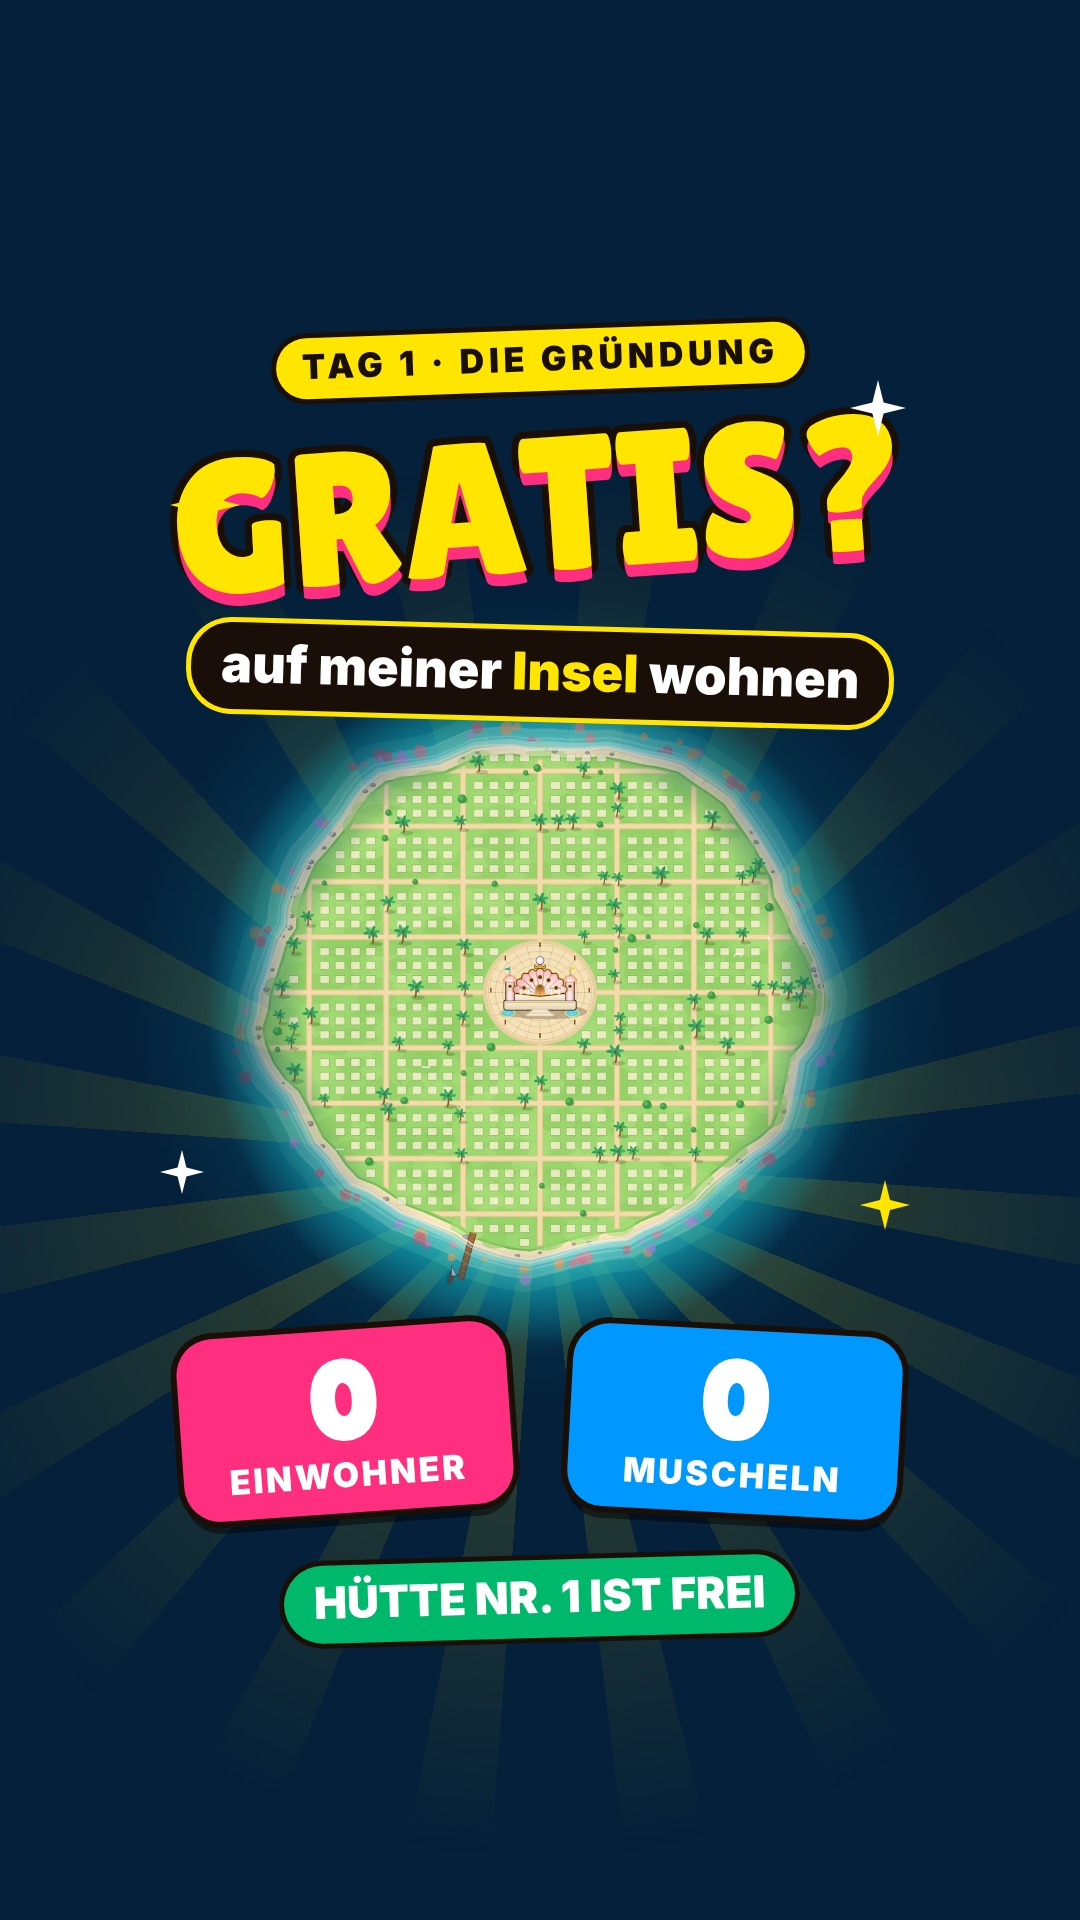
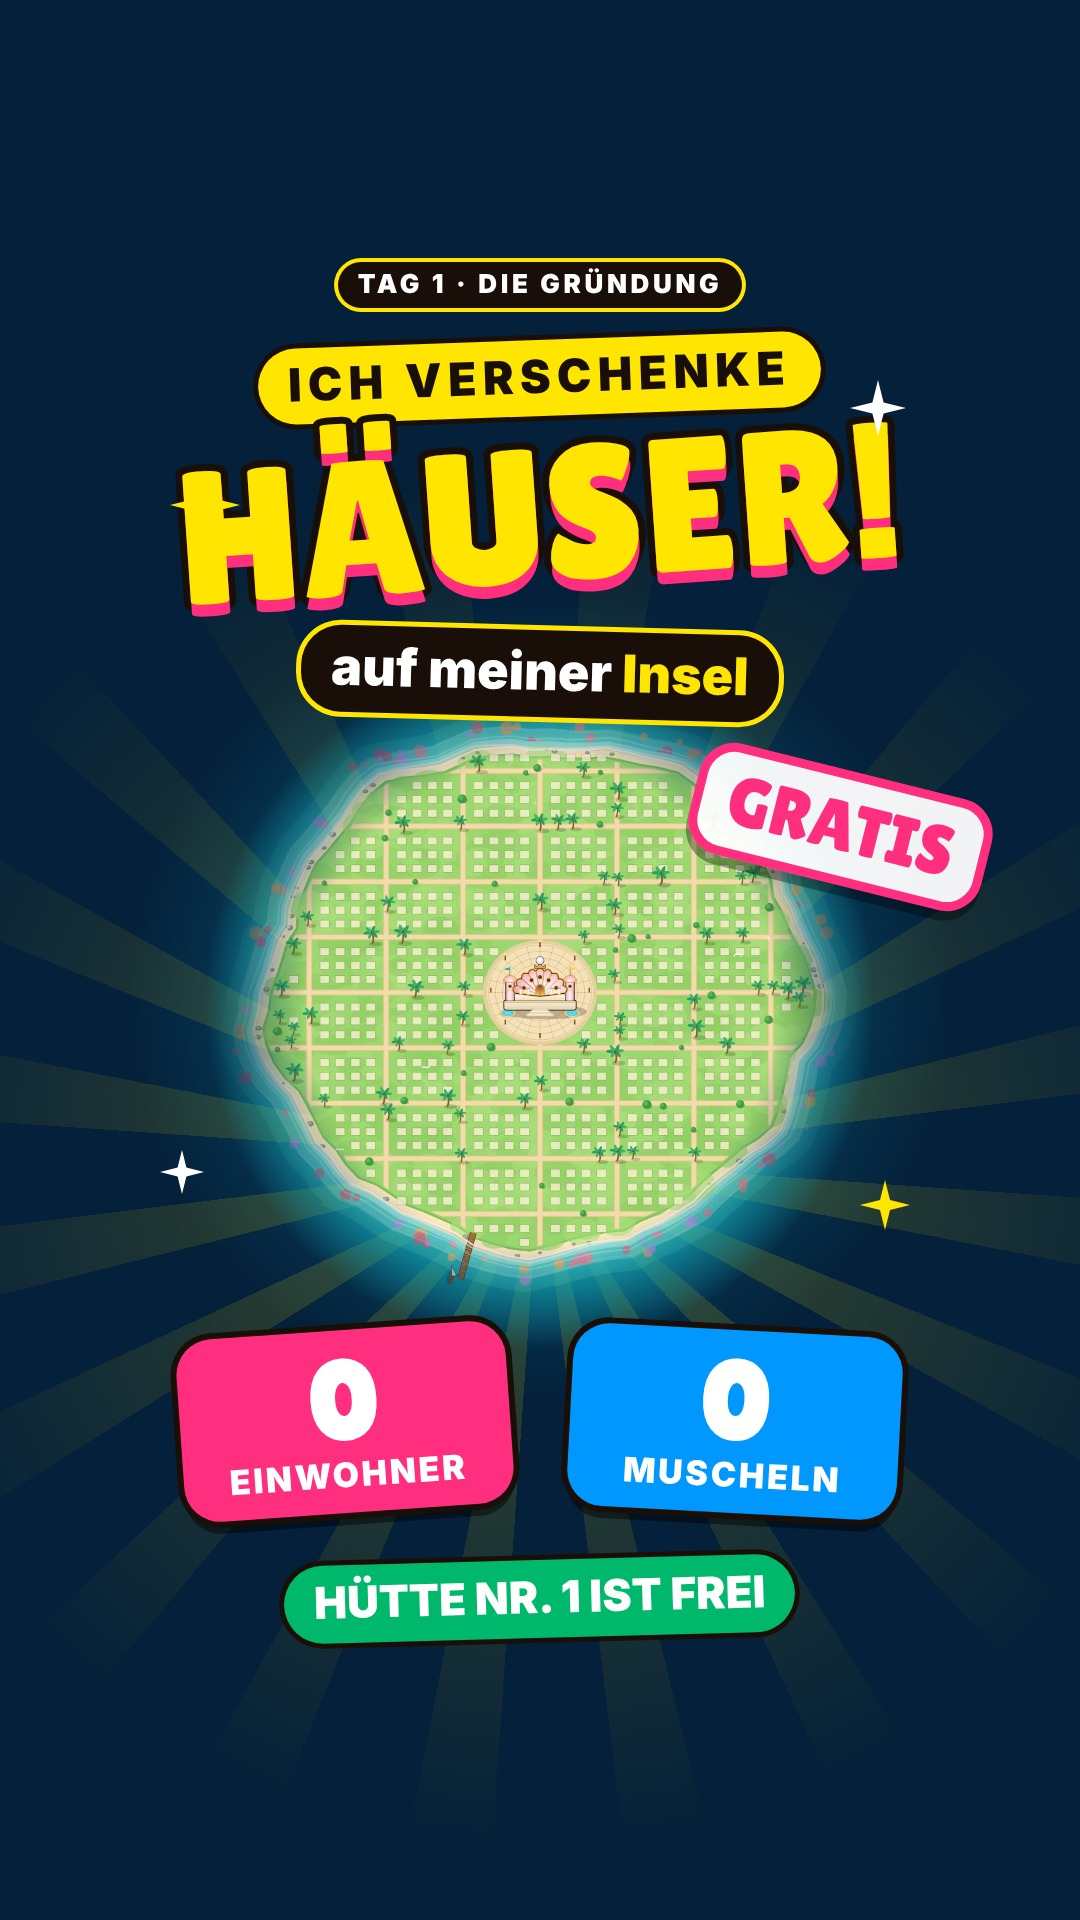
Muschel-Tal Tag 1: Thumbnail 'Ich verschenke Häuser!' + Beschreibung v3
Claude-Session: https://claude.ai/code/session_01McNdgWwqfWZ56Gqk3h71JF

Changed region(s): [[0.1528, 0.125, 0.9167, 0.5]]

diff --git a/videos/muscheltal-tag-1/cover/index.html b/videos/muscheltal-tag-1/cover/index.html
@@ -11,10 +11,11 @@ body { width: 1080px; height: 1920px; overflow: hidden; background: #04203a; fon
   background: repeating-conic-gradient(from 4deg, rgba(255,229,0,.14) 0deg 7deg, rgba(255,229,0,0) 7deg 18deg);
   -webkit-mask: radial-gradient(circle, #000 0%, #000 25%, transparent 62%); }
 .pill { position: absolute; left: 0; right: 0; margin: 0 auto; width: fit-content; border-radius: 40px; font-weight: 900; }
-#tag { top: 330px; padding: 8px 26px 12px; font-size: 34px; letter-spacing: .14em; background: #ffe500; color: #1a0f08; box-shadow: 0 0 0 5px #1a0f08; transform: rotate(-2deg); }
-#gratis { position: absolute; left: 0; right: 0; top: 410px; text-align: center; font-family: "Lilita One", sans-serif; font-size: 190px; line-height: 1; color: #ffe500;
+#ep { top: 262px; padding: 6px 20px 9px; font-size: 26px; letter-spacing: .14em; background: #1a0f08; color: #fff; box-shadow: 0 0 0 4px #ffe500; }
+#tag { top: 340px; padding: 8px 30px 12px; font-size: 46px; letter-spacing: .14em; background: #ffe500; color: #1a0f08; box-shadow: 0 0 0 5px #1a0f08; transform: rotate(-2deg); }
+#gratis { position: absolute; left: 0; right: 0; top: 420px; text-align: center; font-family: "Lilita One", sans-serif; font-size: 190px; line-height: 1; color: #ffe500;
   -webkit-text-stroke: 14px #1a0f08; paint-order: stroke fill; text-shadow: 0 12px 0 #ff2e7e; transform: rotate(-4deg); }
-#sub { top: 630px; padding: 10px 30px 14px; font-size: 52px; background: #1a0f08; color: #fff; box-shadow: 0 0 0 5px #ffe500; transform: rotate(1.5deg); }
+#sub { top: 630px; z-index: 2; padding: 10px 30px 14px; font-size: 52px; background: #1a0f08; color: #fff; box-shadow: 0 0 0 5px #ffe500; transform: rotate(1.5deg); }
 #sub b { color: #ffe500; }
 .stat { position: absolute; top: 1330px; width: 330px; padding: 14px 0 18px; border-radius: 36px; text-align: center; color: #fff; box-shadow: 0 0 0 6px #1a0f08, 0 12px 0 rgba(0,0,0,.45); }
 .stat b { display: block; font-family: "Lilita One", sans-serif; font-size: 110px; line-height: 1; }
@@ -22,14 +23,18 @@ body { width: 1080px; height: 1920px; overflow: hidden; background: #04203a; fon
 #s1 { left: 180px; background: #ff2e7e; transform: rotate(-4deg); } #s2 { left: 570px; background: #0098ff; transform: rotate(3deg); }
 #free { top: 1560px; padding: 10px 30px 14px; font-size: 44px; background: #00b86b; color: #fff; box-shadow: 0 0 0 5px #1a0f08; transform: rotate(-1.5deg); }
 .sp { position: absolute; }
+#stamp { position: absolute; left: 690px; top: 770px; padding: 6px 26px 10px; border: 9px solid #ff2e7e; border-radius: 36px; background: rgba(255,255,255,.95);
+  color: #ff2e7e; font-family: "Lilita One", sans-serif; font-size: 70px; transform: rotate(14deg); box-shadow: 0 10px 0 rgba(0,0,0,.35); }
 </style></head><body>
 <div id="spot"></div><div id="rays"></div><div id="bg"></div>
-<div id="tag" class="pill">TAG 1 · DIE GRÜNDUNG</div>
-<div id="gratis">GRATIS?</div>
-<div id="sub" class="pill">auf meiner <b>Insel</b> wohnen</div>
+<div id="ep" class="pill">TAG 1 · DIE GRÜNDUNG</div>
+<div id="tag" class="pill">ICH VERSCHENKE</div>
+<div id="gratis">HÄUSER!</div>
+<div id="sub" class="pill">auf meiner <b>Insel</b></div>
 <div class="stat" id="s1"><b>0</b><small>EINWOHNER</small></div>
 <div class="stat" id="s2"><b>0</b><small>MUSCHELN</small></div>
 <div id="free" class="pill">HÜTTE NR. 1 IST FREI</div>
+<div id="stamp">GRATIS</div>
 <svg class="sp" style="left:170px;top:470px;width:70px" viewBox="-10 -10 20 20"><path d="M0 -10 L2 -2 L10 0 L2 2 L0 10 L-2 2 L-10 0 L-2 -2Z" fill="#ffe500"/></svg>
 <svg class="sp" style="left:850px;top:380px;width:56px" viewBox="-10 -10 20 20"><path d="M0 -10 L2 -2 L10 0 L2 2 L0 10 L-2 2 L-10 0 L-2 -2Z" fill="#fff"/></svg>
 <svg class="sp" style="left:860px;top:1180px;width:50px" viewBox="-10 -10 20 20"><path d="M0 -10 L2 -2 L10 0 L2 2 L0 10 L-2 2 L-10 0 L-2 -2Z" fill="#ffe500"/></svg>

diff --git a/videos/muscheltal-tag-1/BESCHREIBUNG.md b/videos/muscheltal-tag-1/BESCHREIBUNG.md
@@ -1,29 +1,29 @@
-# Muschel-Tal – Tag 1: Die Gründung · Beschreibung (v2)
+# Muschel-Tal – Tag 1: Die Gründung · Beschreibung (v3)
 
-**Cover:** `renders/cover.jpg` – „GRATIS? auf meiner Insel wohnen“, Tag 1 · Die Gründung, 0 Einwohner, 0 Muscheln, Hütte Nr. 1 ist frei.
+**Cover:** `renders/cover.jpg` – „ICH VERSCHENKE HÄUSER! auf meiner Insel“, GRATIS-Stempel, 0 Einwohner, 0 Muscheln, Hütte Nr. 1 ist frei.
 
 ## Hauptversion (zum Posten)
-Hütte Nr. 1 ist noch frei 👀 Schreib „ich“ und zieh ein 🏝
-#muscheltal #fürdich #fyp #insel #gratis
+Ich verschenke Häuser 🏠 Wer will eins? Schreib „ich“ 👇
+#muscheltal #fürdich #fyp #gratis #insel
 
-## Alternative A – Neugier
-Eine Insel. 0 Einwohner. 0 Muscheln. Wer wird die Nr. 1? 🐚
-#muscheltal #fürdich #fyp #insel #gratis
+## Alternative A – Knappheit
+Nur 500 Häuser auf der Hauptinsel 🏝 Nr. 1 ist noch frei 👀
+#muscheltal #fürdich #fyp #gratis #insel
 
-## Alternative B – Mini-Challenge
-Nur die ersten 500 wohnen auf der Hauptinsel 🏝 Bist du schnell genug?
-#muscheltal #fürdich #fyp #insel #gratis
+## Alternative B – Neugier
+Ich verschenke Häuser. Wirklich. Einfach folgen 🐚
+#muscheltal #fürdich #fyp #gratis #insel
 
 ## Angepinnter Kommentar (vom Account selbst)
-Die ersten Einwohner ziehen morgen ein 🏝 Was soll ich vom ersten Geld kaufen? 👇
+Die ersten Häuser werden morgen vergeben 🏠 Schreib „ich“, dann merke ich mir deinen Namen 👇
 
 ## Warum so
-- Kurz: auf TikTok sieht man ohne Aufklappen nur ~70–100 Zeichen – der ganze Text passt da rein.
-- Eine offene Frage bzw. ein klarer Auftrag („Schreib ‚ich‘“) statt einer Erklärung – das Video erklärt schon alles.
-- Ein Kommentar mit einem Wort ist die niedrigste Hürde → viele Kommentare früh = mehr Reichweite.
-- Hashtags: #muscheltal (Marke), #fürdich + #fyp (Reichweite), #insel (Thema), #gratis (passt zum neuen Hook „umsonst“, wird oft gesucht).
+- Sehr kurz: der ganze Text ist ohne Aufklappen sichtbar.
+- Greift den neuen Hook „Ich verschenke Häuser“ auf – Video, Cover und Text sagen dasselbe.
+- „Wer will eins? Schreib ‚ich‘“ = leichtester möglicher Kommentar → viele frühe Kommentare = mehr Reichweite.
+- #gratis vorne bei den Themen-Hashtags, weil „verschenken/gratis“ jetzt der Kern ist.
 
 ## Tipps
 - Posten werktags 17–20 Uhr oder Sonntagvormittag.
-- In der ersten Stunde jedem „ich“ antworten, z. B. „Hütte reserviert ✅“ – erzeugt weitere Kommentare.
-- Zwei, drei Antworten als Video-Antwort aufnehmen („@name, deine Hütte steht!“) – das ist gleich Material für Tag 2.
+- In der ersten Stunde auf jedes „ich“ antworten („Haus reserviert ✅“).
+- Die schönsten Kommentare in Tag 2 als Einwohner zeigen.
